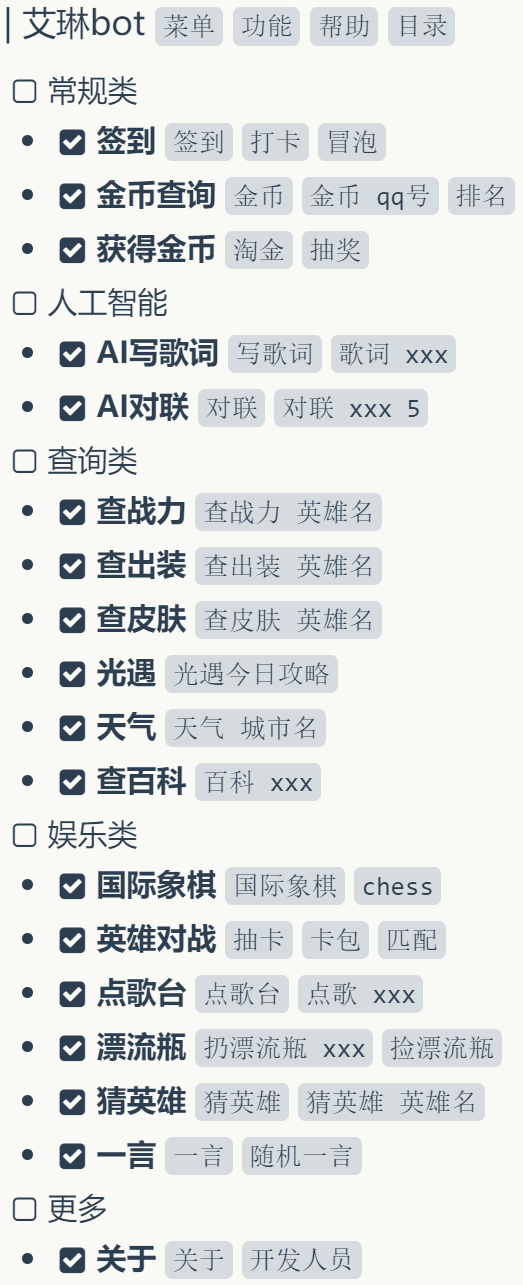
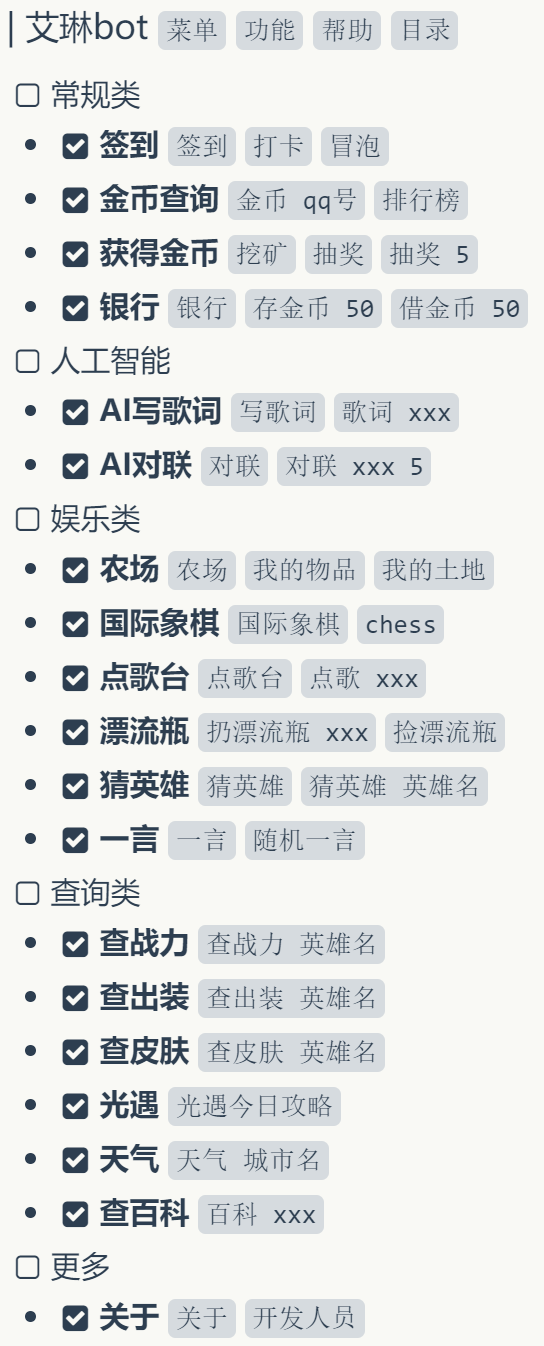
Add files via upload

diff --git a/resource/farm/图鉴.md b/resource/farm/图鉴.md
@@ -1,0 +1,17 @@
+#### | 物品大全
+植物：`小麦 ` `玉米 ` `胡萝卜 ` `大豆 ` `甘蔗 ` `木蓝 ` `南瓜 ` `棉花 ` `辣椒 ` `西红柿 ` `草莓 ` `土豆 ` `水稻 ` `生菜 ` `向日葵 ` `洋葱 ` `茶叶 ` `牡丹花 ` `葡萄 ` `高粱 ` `人参 ` `咖啡豆 ` `桑椹 `
+
+动物：`母鸡 ` `奶牛 ` `猪 ` `绵羊 ` `孔雀 ` `鱼 ` `牛 ` `貂 ` `蚕 ` `寻回犬 ` `虎斑猫 ` `杜宾犬 ` `三色猫 ` `栗色马 ` `猎犬 ` `燕尾服猫 ` `小白兔 ` `帕洛米诺马 ` `品托马 ` `安达卢西亚马 ` `毛驴 ` `加菲猫 `
+
+基本物品： `蛋 ` `奶 ` `肉 ` `羽毛 ` `羊毛 ` `皮革 ` `貂皮 ` `丝绸 ` 
+
+高级物品： `面包 ` `黄油 ` `奶酪 ` `白糖 ` `红糖 ` `糖浆 ` `爆米花 ` `奶油爆米花 ` `煎饼 ` `烤土豆 ` `烤肉 ` `千层面 ` `胡萝卜派 ` `南瓜派 ` `蛋糕 ` `果汁 ` `香草冰淇淋 ` `草莓冰淇淋 ` `雪糕 ` `草莓酱 ` `浆果沙冰 ` `咖啡 ` `白酒 ` `葡萄酒 ` `啤酒 ` `寿司 ` `三明治 `
+
+饰品：`金条 ` `铁 ` `铜 ` `银 ` `铂金 ` `银项链 ` `银手镯 ` `金项链 ` `金手镯 ` `铂金项链 ` `铂金手镯 ` `钻戒 `
+
+服饰：`皮衣 ` `貂皮衣`  `羊毛衫` `旗袍`
+
+矿石： `铁矿石 ` `金矿石 ` `银矿石 ` `铜矿石 ` `铂金矿石 ` `钻石 `
+
+建筑： `面包房 ` `制奶厂 ` `制糖厂 ` `爆米花烤锅 ` `烧烤架 ` `烤炉 ` `织布机 ` `炼金炉 ` `果汁机 ` `冰淇淋机 ` `果酱机 ` `酿酒厂 ` `珠宝店 ` `咖啡亭 ` `寿司吧 ` `三明治店 ` `沙冰机 `
+

diff --git a/resource/farm/农场菜单.md b/resource/farm/农场菜单.md
@@ -1,0 +1,14 @@
+#### | 农场 `农场`
+- [ ] 查询
+- - [x] <strong>查询</strong>  `我的物品` `查询 qq号`
+- - [x] <strong>设置</strong> `饰品` `服饰` `宠物`
+- - [x] <strong>物品大全</strong> `物品大全` `图鉴`
+- [ ] 生产
+- - [x] <strong>种植</strong> `种xxx 数量` `种小麦 10`
+- - [x] <strong>饲养</strong> `养xxx 数量` `养小白兔 10`
+- - [x] <strong>制作</strong> `制作xxx 数量` `制作寿司 5`
+- [ ] 商店
+- - [x] <strong>商店</strong> `商店` `我的货架`
+- - [x] <strong>出售</strong> `出售xxx 单价 数量` `出售小麦 5 5`
+- [ ] 注意事项
+- - [x] <strong>说明</strong> `该空格的地方注意空格`
